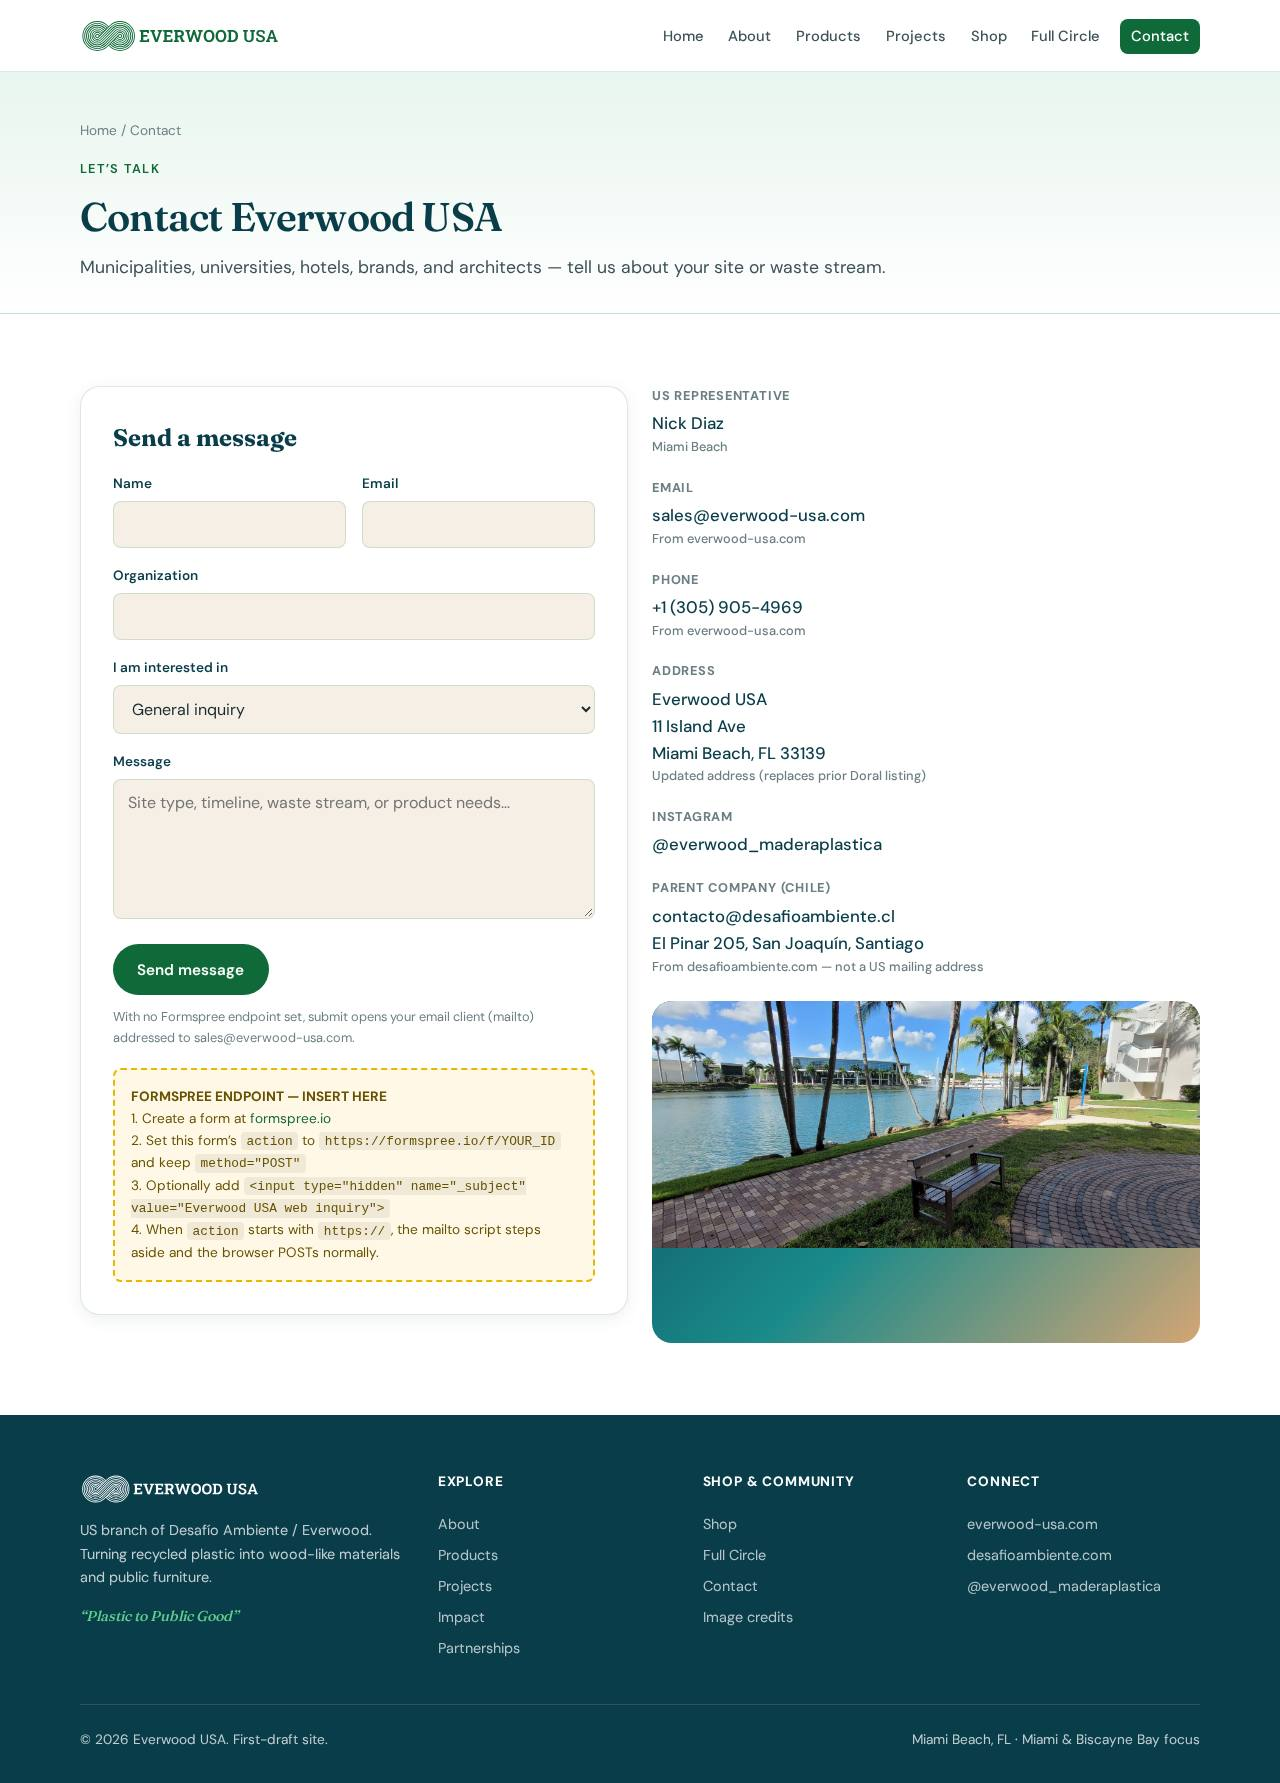
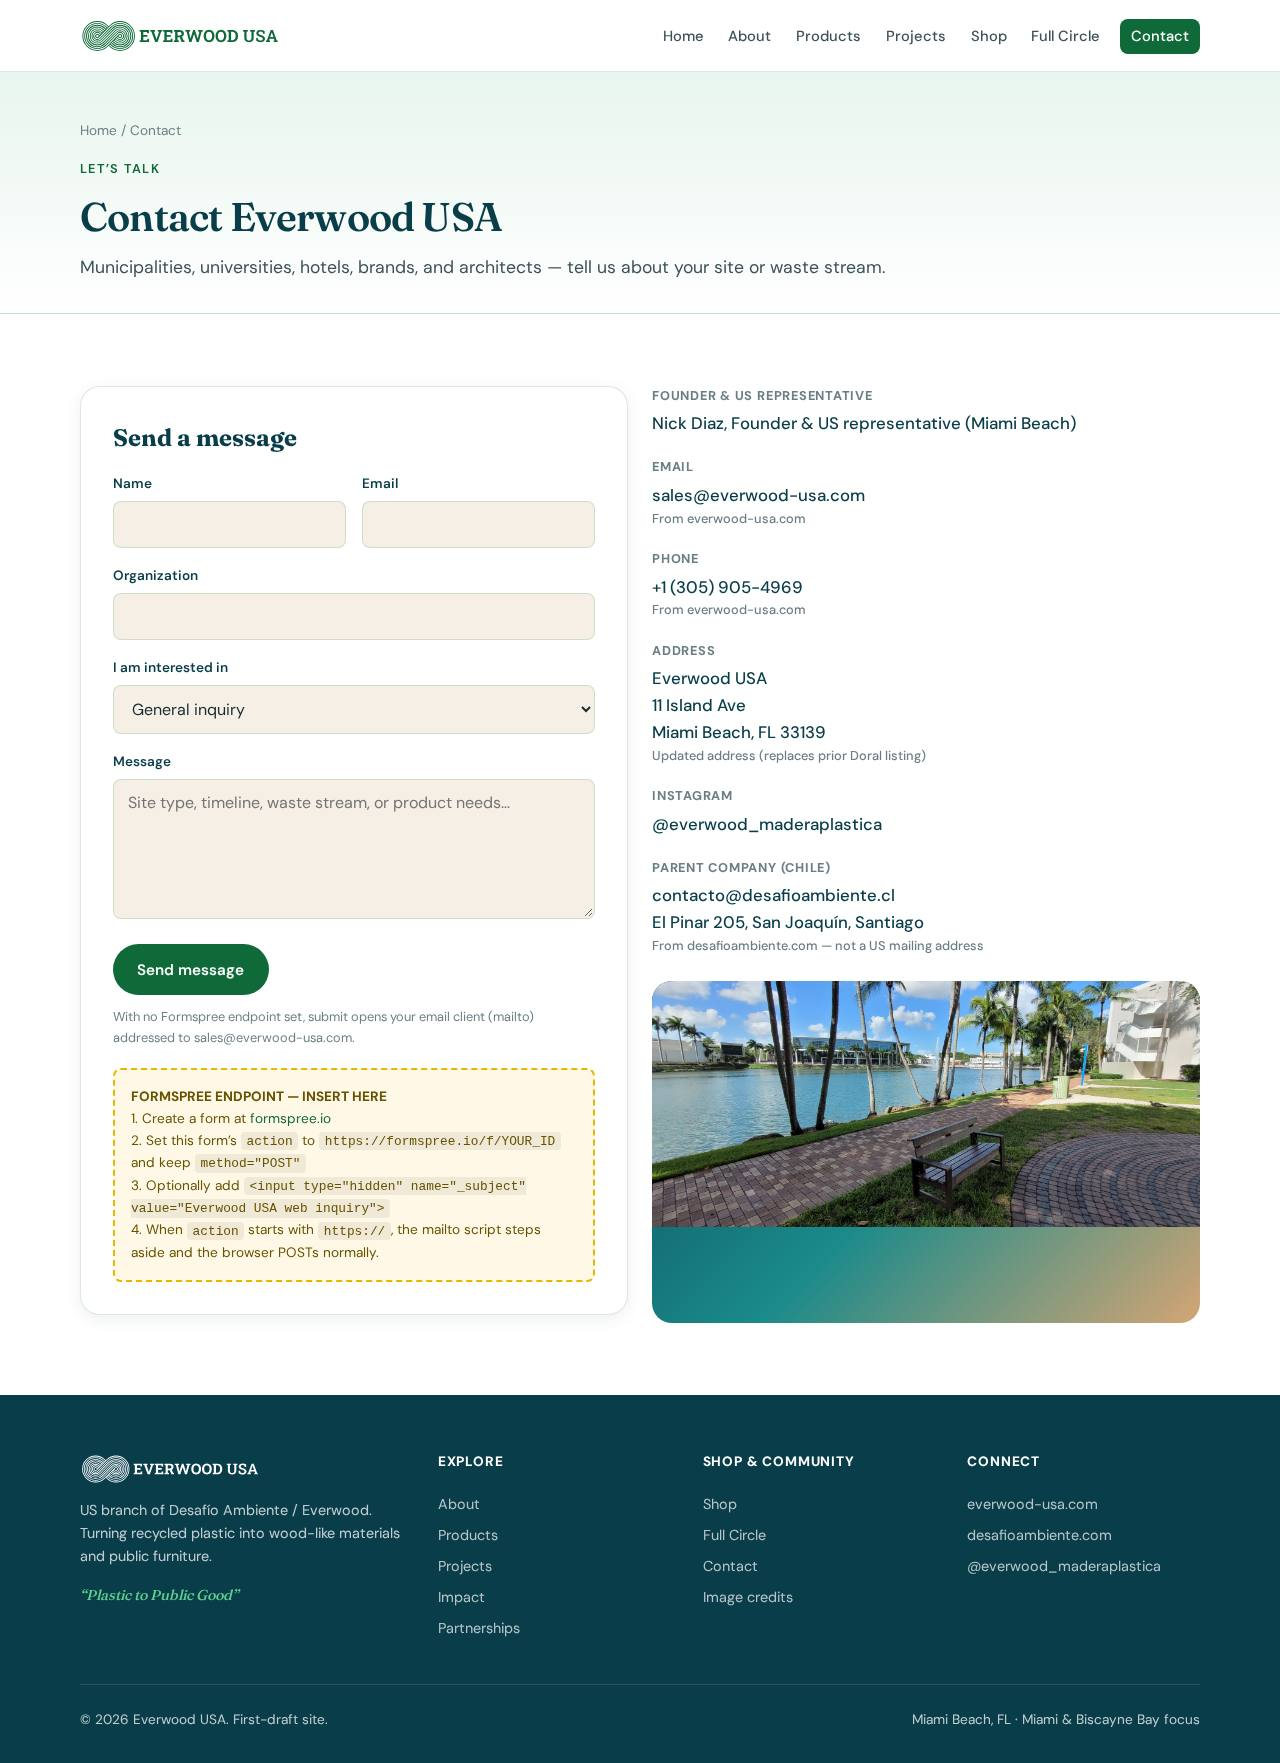
Reframe founder as local backer

diff --git a/pages/about.html b/pages/about.html
@@ -19,25 +19,35 @@
   <script type="application/ld+json">
   {
     "@context": "https://schema.org",
-    "@type": "Organization",
-    "name": "Everwood USA",
-    "url": "https://everwood-usa.com",
-    "logo": "https://everwood-usa.com/assets/img/logo/everwood-usa_horizontal_green.svg",
-    "parentOrganization": {
-      "@type": "Organization",
-      "name": "Desafío Ambiente / Everwood"
-    },
-    "employee": {
-      "@type": "Person",
-      "name": "Nick Diaz",
-      "jobTitle": "US representative",
-      "homeLocation": {
-        "@type": "Place",
-        "name": "Miami Beach, Florida"
+    "@graph": [
+      {
+        "@type": "Organization",
+        "@id": "https://everwood-usa.com/#organization",
+        "name": "Everwood USA",
+        "url": "https://everwood-usa.com",
+        "logo": "https://everwood-usa.com/assets/img/logo/everwood-usa_horizontal_green.svg",
+        "founder": { "@id": "https://everwood-usa.com/#nick-diaz" },
+        "parentOrganization": {
+          "@type": "Organization",
+          "name": "Desafío Ambiente / Everwood"
+        }
+      },
+      {
+        "@type": "Person",
+        "@id": "https://everwood-usa.com/#nick-diaz",
+        "name": "Nick Diaz",
+        "jobTitle": "Founder",
+        "worksFor": { "@id": "https://everwood-usa.com/#organization" },
+        "homeLocation": {
+          "@type": "Place",
+          "name": "Miami Beach, Florida"
+        },
+        "url": "https://everwood-usa.com/pages/about.html#founded-miami-beach"
       }
-    }
+    ]
   }
   </script>
+
 
 </head>
 <body>
@@ -78,11 +88,19 @@
           <p>Everwood began as a project of Desafío Ambiente in Santiago, Chile, where recycled plastics are revalorized through injection and extrusion into high-performance construction materials and urban furniture.</p>
           <p>Everwood USA brings that model to South Florida — with a focus on Biscayne Bay, Miami, and Miami Beach — so local plastic waste can become benches, decks, fencing, and site furniture that never rot.</p>
           <p>Founder Anita Farfán leads the Everwood brand under Desafío Ambiente (source: desafioambiente.com).</p>
-          <p><strong>In the US.</strong> Everwood USA is represented in Miami Beach by Nick Diaz, a longtime divemaster who lives on the beach and is regularly on the water cleaning up the Bay. The US focus is getting local plastic out of the water and into useful products.</p>
         </div>
         <div class="split-media ph" data-ph="about-process.jpg">
           <img src="../assets/img/about-process.jpg" alt="Gloved hands holding recycled plastic flakes used to make Everwood" width="1200" height="800" />
         </div>
+      </div>
+    </section>
+
+
+    <section class="section section-mist" id="founded-miami-beach">
+      <div class="container" style="max-width:720px">
+        <p class="eyebrow" style="color:var(--bay-teal)">Local backing</p>
+        <h2>Founded in Miami Beach</h2>
+        <p>Everwood USA was founded and is backed by Nick Diaz, a Miami Beach resident and longtime divemaster who is regularly on the water cleaning up the Bay. Through his other Miami Beach–based businesses, he supports Everwood USA as their socially responsible branch giving back to the community — to preserve our waterways and beaches and build a circular economy where local plastic becomes local public goods. He works alongside the Chilean makers who manufacture the product.</p>
       </div>
     </section>
 

diff --git a/index.html b/index.html
@@ -19,25 +19,35 @@
   <script type="application/ld+json">
   {
     "@context": "https://schema.org",
-    "@type": "Organization",
-    "name": "Everwood USA",
-    "url": "https://everwood-usa.com",
-    "logo": "https://everwood-usa.com/assets/img/logo/everwood-usa_horizontal_green.svg",
-    "parentOrganization": {
-      "@type": "Organization",
-      "name": "Desafío Ambiente / Everwood"
-    },
-    "employee": {
-      "@type": "Person",
-      "name": "Nick Diaz",
-      "jobTitle": "US representative",
-      "homeLocation": {
-        "@type": "Place",
-        "name": "Miami Beach, Florida"
+    "@graph": [
+      {
+        "@type": "Organization",
+        "@id": "https://everwood-usa.com/#organization",
+        "name": "Everwood USA",
+        "url": "https://everwood-usa.com",
+        "logo": "https://everwood-usa.com/assets/img/logo/everwood-usa_horizontal_green.svg",
+        "founder": { "@id": "https://everwood-usa.com/#nick-diaz" },
+        "parentOrganization": {
+          "@type": "Organization",
+          "name": "Desafío Ambiente / Everwood"
+        }
+      },
+      {
+        "@type": "Person",
+        "@id": "https://everwood-usa.com/#nick-diaz",
+        "name": "Nick Diaz",
+        "jobTitle": "Founder",
+        "worksFor": { "@id": "https://everwood-usa.com/#organization" },
+        "homeLocation": {
+          "@type": "Place",
+          "name": "Miami Beach, Florida"
+        },
+        "url": "https://everwood-usa.com/pages/about.html#founded-miami-beach"
       }
-    }
+    ]
   }
   </script>
+
 
 </head>
 <body>
@@ -248,6 +258,12 @@
       </div>
     </section>
 
+
+    <section class="section" style="padding-top:0;padding-bottom:2rem">
+      <div class="container">
+        <p class="text-center" style="font-size:0.95rem;color:var(--muted);max-width:40em;margin:0 auto">Everwood USA is the community-responsibility initiative of Miami Beach founder Nick Diaz, made with Everwood Chile.</p>
+      </div>
+    </section>
     <section class="section">
       <div class="container">
         <div class="cta-band">

diff --git a/pages/full-circle.html b/pages/full-circle.html
@@ -69,7 +69,7 @@
             <div class="step-num">1</div>
             <div>
               <h3>Clean up</h3>
-              <p>Join a scheduled Miami Beach or Biscayne Bay cleanup. Cleanups are organized locally in Miami Beach by our US representative, a local divemaster. Bring gloves and friends — we’ll share meeting details when you sign up.</p>
+              <p>Join a scheduled Miami Beach or Biscayne Bay cleanup. Founded and backed locally by Miami Beach resident and divemaster Nick Diaz. Bring gloves and friends — we’ll share meeting details when you sign up.</p>
             </div>
           </div>
           <div class="step">

diff --git a/pages/contact.html b/pages/contact.html
@@ -105,9 +105,8 @@
           <div>
             <div class="contact-details">
               <div class="contact-item">
-                <h4>US representative</h4>
-                <p>Nick Diaz</p>
-                <p style="font-size:0.8rem;color:var(--muted)">Miami Beach</p>
+                <h4>Founder &amp; US representative</h4>
+                <p>Nick Diaz, Founder &amp; US representative (Miami Beach)</p>
               </div>
               <div class="contact-item">
                 <h4>Email</h4>
